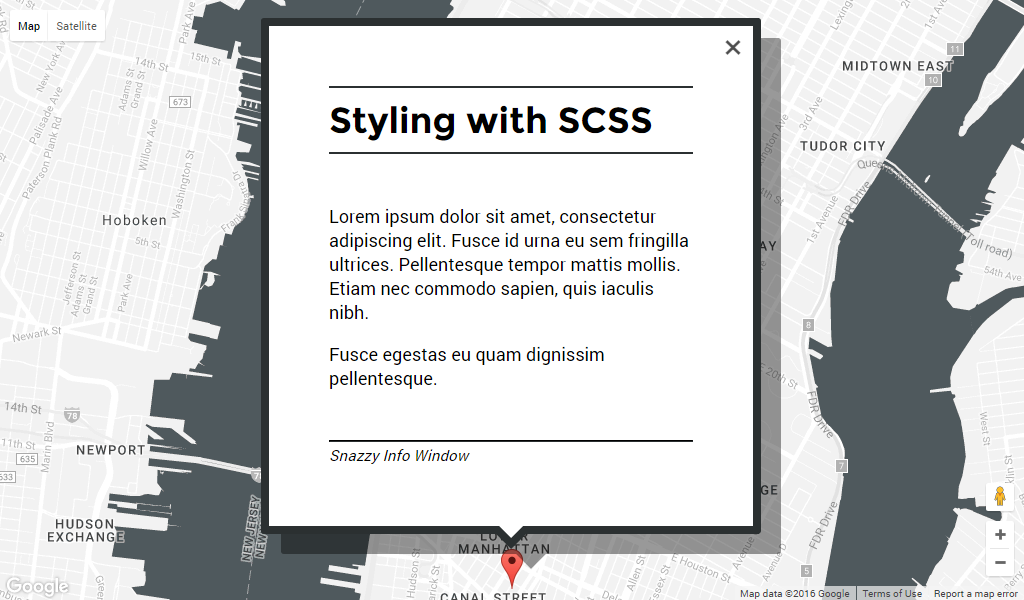
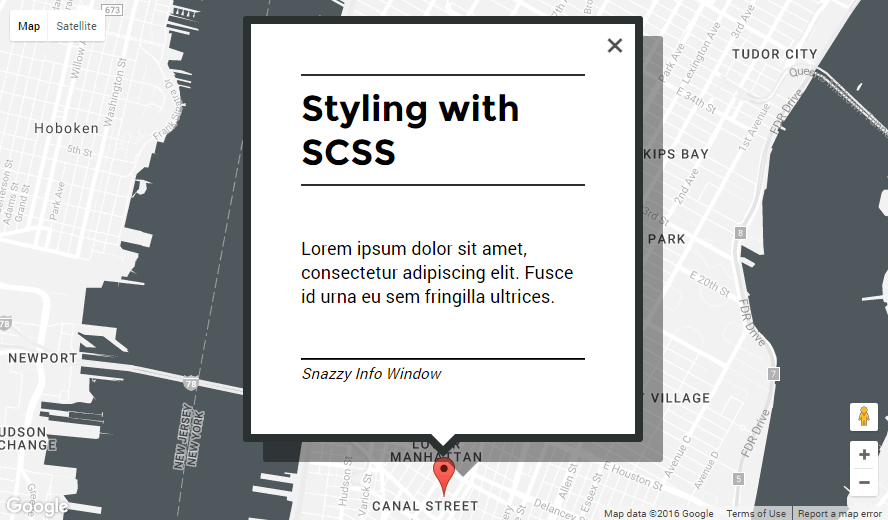
Adjusted the SCSS styling example. Added a javascript styling example.

diff --git a/examples/js-styles/index.js b/examples/js-styles/index.js
@@ -1,0 +1,39 @@
+$(function() {
+    // Snazzy Map Style
+    var mapStyle = [{'featureType': 'all', 'elementType': 'labels.text', 'stylers': [{'visibility': 'off'}]}, {'featureType': 'all', 'elementType': 'labels.text.fill', 'stylers': [{'saturation': 36}, {'color': '#333333'}, {'lightness': 40}, {'visibility': 'off'}]}, {'featureType': 'all', 'elementType': 'labels.text.stroke', 'stylers': [{'visibility': 'off'}, {'color': '#ffffff'}, {'lightness': 16}]}, {'featureType': 'all', 'elementType': 'labels.icon', 'stylers': [{'visibility': 'off'}]}, {'featureType': 'administrative', 'elementType': 'geometry.fill', 'stylers': [{'color': '#fefefe'}, {'lightness': 20}]}, {'featureType': 'administrative', 'elementType': 'geometry.stroke', 'stylers': [{'color': '#fefefe'}, {'lightness': 17}, {'weight': 1.2}]}, {'featureType': 'landscape', 'elementType': 'geometry', 'stylers': [{'color': '#f5f5f5'}, {'lightness': 20}]}, {'featureType': 'poi', 'elementType': 'geometry', 'stylers': [{'color': '#f5f5f5'}, {'lightness': 21}]}, {'featureType': 'poi.park', 'elementType': 'geometry', 'stylers': [{'color': '#dedede'}, {'lightness': 21}]}, {'featureType': 'road.highway', 'elementType': 'geometry.fill', 'stylers': [{'color': '#ffffff'}, {'lightness': 17}]}, {'featureType': 'road.highway', 'elementType': 'geometry.stroke', 'stylers': [{'color': '#ffffff'}, {'lightness': 29}, {'weight': 0.2}]}, {'featureType': 'road.arterial', 'elementType': 'geometry', 'stylers': [{'color': '#ffffff'}, {'lightness': 18}]}, {'featureType': 'road.local', 'elementType': 'geometry', 'stylers': [{'color': '#ffffff'}, {'lightness': 16}]}, {'featureType': 'transit', 'elementType': 'geometry', 'stylers': [{'color': '#f2f2f2'}, {'lightness': 19}]}, {'featureType': 'water', 'elementType': 'geometry', 'stylers': [{'color': '#e9e9e9'}, {'lightness': 17}]}];
+
+    // Create the map
+    var map = new google.maps.Map($('.map-canvas')[0], {
+        zoom: 14,
+        styles: mapStyle,
+        center: new google.maps.LatLng(40.721, -73.991)
+    });
+
+    // Add a marker
+    var marker = new google.maps.Marker({
+        map: map,
+        position: new google.maps.LatLng(40.72, -74)
+    });
+
+    // Add a Snazzy Info Window to the marker
+    var info = new SnazzyInfoWindow({
+        marker: marker,
+        position: 'right',
+        offset: {
+            left: '20px'
+        },
+        content: '<div>STYLING</div>' +
+                 '<div>WITH</div>' +
+                 '<div><strong>JAVASCRIPT</strong></div>',
+        showCloseButton: false,
+        closeOnMapClick: false,
+        padding: '48px',
+        backgroundColor: 'rgba(0, 0, 0, 0.7)',
+        border: false,
+        borderRadius: '0px',
+        shadow: false,
+        fontColor: '#fff',
+        fontSize: '15px'
+    });
+    info.open();
+});

diff --git a/examples/js-styles/index.html b/examples/js-styles/index.html
@@ -1,0 +1,26 @@
+<!DOCTYPE html>
+<html>
+    <head>
+        <title>Snazzy Info Window</title>
+        <link rel="stylesheet" href="../../dist/snazzy-info-window.min.css">
+        <script src="https://cdnjs.cloudflare.com/ajax/libs/jquery/3.1.0/jquery.min.js"></script>
+        <script src="https://maps.googleapis.com/maps/api/js?v=3"></script>
+        <script src="../../dist/snazzy-info-window.min.js"></script>
+        <script src="index.js"></script>
+        <style>
+            /* Styles that make the map full-screen */
+            html, body {
+                height: 100%;
+                margin: 0;
+            }
+
+            .map-canvas {
+                height: 100%;
+            }
+        </style>
+    </head>
+    <body>
+        <div class="map-canvas">
+        </div>
+    </body>
+</html>

diff --git a/examples/scss-styles/index.js b/examples/scss-styles/index.js
@@ -19,8 +19,7 @@ $(function() {
     var info = new SnazzyInfoWindow({
         marker: marker,
         content: '<h1>Styling with SCSS</h1>' +
-                 '<p>Lorem ipsum dolor sit amet, consectetur adipiscing elit. Fusce id urna eu sem fringilla ultrices. Pellentesque tempor mattis mollis. Etiam nec commodo sapien, quis iaculis nibh.</p>' +
-                 '<p>Fusce egestas eu quam dignissim pellentesque.</p>' +
+                 '<p>Lorem ipsum dolor sit amet, consectetur adipiscing elit. Fusce id urna eu sem fringilla ultrices.</p>' +
                  '<hr>' +
                  '<em>Snazzy Info Window</em>',
         closeOnMapClick: false

diff --git a/examples/README.md b/examples/README.md
@@ -33,7 +33,7 @@ Content which is loaded using a handlebars template and updated through an inter
 
 [View live example][dynamic-content]
 
-[dynamic-content-screenshot]: dynamic-content/screenshot.png "Screenshot"
+[dynamic-content-screenshot]: dynamic-content/screenshot.png "Dynamic COntent Screenshot"
 [dynamic-content]: https://rawgit.com/atmist/snazzy-info-window/master/examples/dynamic-content/index.html
 
 ## scss-styles
@@ -44,5 +44,16 @@ Styling the Snazzy Info Window with SCSS.
 
 [View live example][scss-styles]
 
-[scss-styles-screenshot]: scss-styles/screenshot.png "Screenshot"
+[scss-styles-screenshot]: scss-styles/screenshot.png "SCSS Styles Screenshot"
 [scss-styles]: https://rawgit.com/atmist/snazzy-info-window/master/examples/scss-styles/index.html
+
+## js-styles
+
+Styling the Snazzy Info Window with javascript options.
+
+![Screenshot][js-styles-screenshot]
+
+[View live example][js-styles]
+
+[js-styles-screenshot]: js-styles/screenshot.png "SCSS Styles Screenshot"
+[js-styles]: https://rawgit.com/atmist/snazzy-info-window/master/examples/js-styles/index.html

diff --git a/README.md b/README.md
@@ -22,6 +22,8 @@ Open sourced by the people that created [Snazzy Maps](https://snazzymaps.com).
 - [Simple](/examples#simple)
 - [Multiple markers](/examples#multiple-markers)
 - [Dynamic content](/examples#dynamic-content)
+- [Styling with SCSS](/examples#scss-styles)
+- [Styling with javascript](/examples#js-styles)
 
 ## Installation
 
